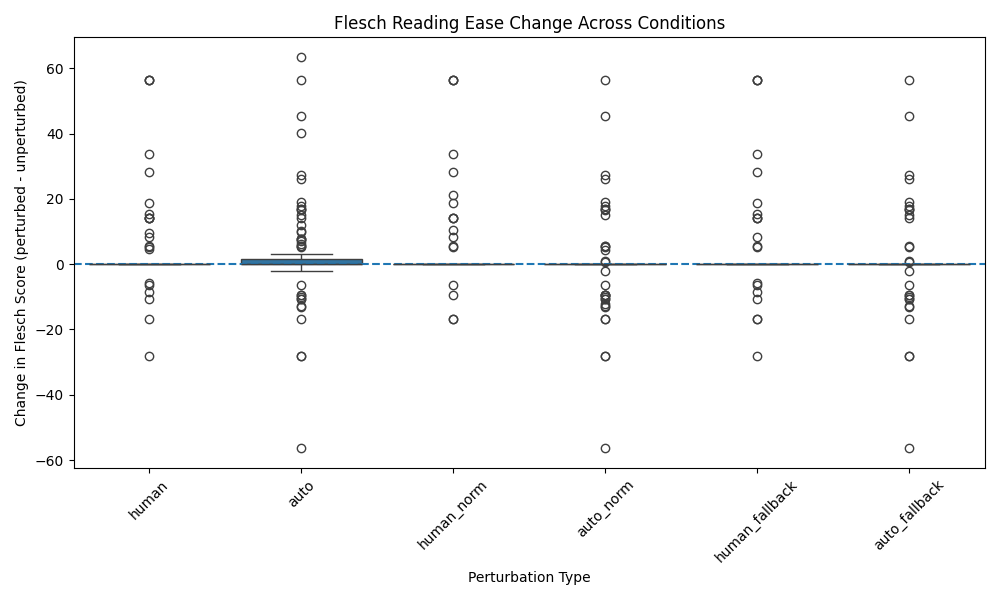
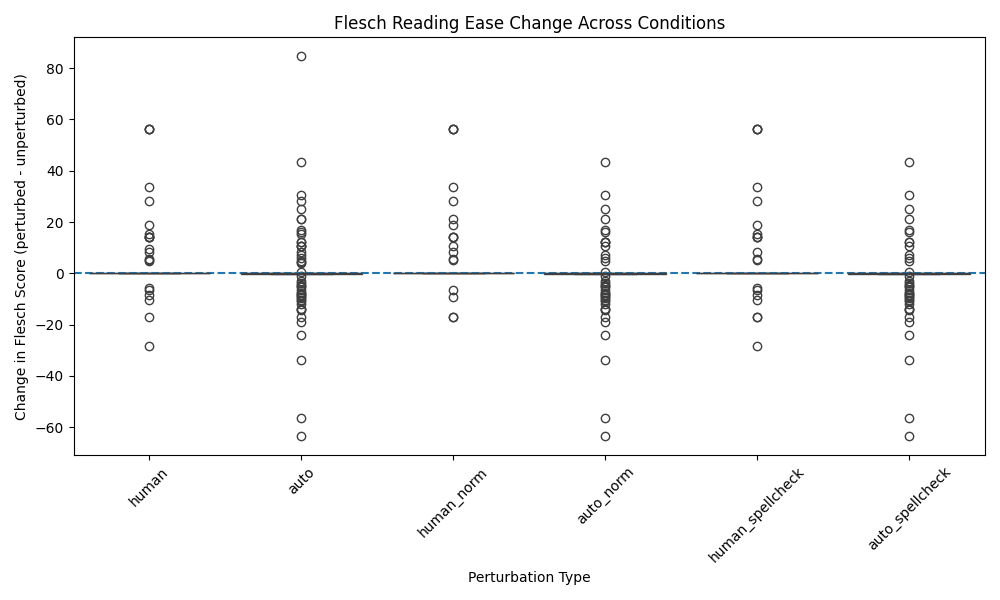
removed some more redundancies and unused code

diff --git a/run.py b/run.py
@@ -3,7 +3,7 @@ from data.automated import automated_perturbation
 from models.detoxify_model import evaluate_toxicity
 from models.hatexplain import hatexplain
 from mitigations.normalisation import normalise_text
-from mitigations.detection_fallback import detect_and_fallback
+from mitigations.detection_spellcheck import detect_and_spellcheck
 from evaluation.results import compare_toxicity_scores
 from evaluation.label_changes import evaluate_label_changes
 from evaluation.analysis import compare_similarity, compute_levenshtein, summarise_levenshtein, compute_readability, summarise_readability
@@ -12,7 +12,7 @@ from models.perspective import evaluate_perspective
 import pandas as pd
 
 def main():
-    print("Loading data...")
+    print("Loading dataset...")
     df = load_noisyhate()
 
 
@@ -22,37 +22,37 @@ def main():
     print("Evaluating Detoxify on clean texts...")
     clean_scores = evaluate_toxicity(clean_texts)
 
-    print("Applying normalisation mitigation (clean)...")
+    print("Applying normalisation mitigation on unperturbed texts...")
     clean_norm_texts = [normalise_text(t) for t in clean_texts]
     clean_norm_scores = evaluate_toxicity(clean_norm_texts)
 
-    print("Applying detection + fallback mitigation (clean)...")
-    clean_fallback_texts = detect_and_fallback(clean_texts, fallback_fn=lambda x: x)
-    clean_fallback_scores = evaluate_toxicity(clean_fallback_texts)
+    print("Applying detection + spellcheck mitigation on unperturbed texts...")
+    clean_spellcheck_texts = detect_and_spellcheck(clean_texts)
+    clean_spellcheck_scores = evaluate_toxicity(clean_spellcheck_texts)
 
     print("Evaluating Detoxify on human perturbed texts...")
     human_scores = evaluate_toxicity(human_texts)
 
-    print("Generating automated perturbations...")
+    print("Generating and evaluating detoxify on automated perturbations...")
     auto_texts = automated_perturbation(clean_texts, num_examples=len(clean_texts))
     auto_texts = [str(t) if t is not None else "" for t in auto_texts]
     auto_scores = evaluate_toxicity(auto_texts)
 
-    print("Applying normalisation mitigation (human)...")
+    print("Applying normalisation mitigation on human perturbed texts...")
     human_norm_texts = [normalise_text(t) for t in human_texts]
     human_norm_scores = evaluate_toxicity(human_norm_texts)
 
-    print("Applying detection + fallback mitigation (human)...")
-    human_fallback_texts = detect_and_fallback(human_texts, fallback_fn=lambda x: x)
-    human_fallback_scores = evaluate_toxicity(human_fallback_texts)
+    print("Applying detection + spellcheck mitigation on human perturbed texts...")
+    human_spellcheck_texts = detect_and_spellcheck(human_texts)
+    human_spellcheck_scores = evaluate_toxicity(human_spellcheck_texts)
 
-    print("Applying normalisation mitigation (automated)...")
+    print("Applying normalisation mitigation on automated perturbations...")
     auto_norm_texts = [normalise_text(t) for t in auto_texts]
     auto_norm_scores = evaluate_toxicity(auto_norm_texts)
 
-    print("Applying detection + fallback mitigation (automated)...")
-    auto_fallback_texts = detect_and_fallback(auto_texts, fallback_fn=lambda x: x)
-    auto_fallback_scores = evaluate_toxicity(auto_fallback_texts)
+    print("Applying detection + spellcheck mitigation on automated perturbations...")
+    auto_spellcheck_texts = detect_and_spellcheck(auto_texts)
+    auto_spellcheck_scores = evaluate_toxicity(auto_spellcheck_texts)
 
     # HateXplain
     print("\nRunning HateXplain on clean texts...")
@@ -69,24 +69,24 @@ def main():
     hx_auto_label_stats = evaluate_label_changes(hx_clean, hx_auto)
 
     hx_human_norm = hatexplain(human_norm_texts)
-    hx_human_fallback = hatexplain(human_fallback_texts)
+    hx_human_spellcheck = hatexplain(human_spellcheck_texts)
 
     hx_human_norm_label_stats = evaluate_label_changes(hx_clean, hx_human_norm)
-    hx_human_fallback_label_stats = evaluate_label_changes(hx_clean, hx_human_fallback)
+    hx_human_spellcheck_label_stats = evaluate_label_changes(hx_clean, hx_human_spellcheck)
 
     hx_auto_norm = hatexplain(auto_norm_texts)
-    hx_auto_fallback = hatexplain(auto_fallback_texts)
+    hx_auto_spellcheck = hatexplain(auto_spellcheck_texts)
 
     hx_auto_norm_label_stats = evaluate_label_changes(hx_clean, hx_auto_norm)
-    hx_auto_fallback_label_stats = evaluate_label_changes(hx_clean, hx_auto_fallback)
+    hx_auto_spellcheck_label_stats = evaluate_label_changes(hx_clean, hx_auto_spellcheck)
 
     hx_results = {
     "human": hx_human_label_stats,
     "auto": hx_auto_label_stats,
     "human_norm": hx_human_norm_label_stats,
-    "human_fallback": hx_human_fallback_label_stats,
+    "human_spellcheck": hx_human_spellcheck_label_stats,
     "auto_norm": hx_auto_norm_label_stats,
-    "auto_fallback": hx_auto_fallback_label_stats,
+    "auto_spellcheck": hx_auto_spellcheck_label_stats,
     }
 
     # Perspective API
@@ -97,39 +97,39 @@ def main():
             print("\nEvaluating Perspective API on clean texts...")
             persp_clean = evaluate_perspective(clean_texts)
 
-            print("Applying normalisation mitigation (Perspective, clean)...")
+            print("Evaluating normalisation on unperturbed texts with Perspective API...")
             persp_clean_norm = evaluate_perspective(clean_norm_texts)
 
-            print("Applying detection + fallback mitigation (Perspective, clean)...")
-            persp_clean_fallback = evaluate_perspective(clean_fallback_texts)
+            print("Evaluating detection + spellcheck mitigation on unperturbed texts with Perspective API...")
+            persp_clean_spellcheck = evaluate_perspective(clean_spellcheck_texts)
 
             print("Evaluating Perspective API on human perturbed texts...")
             persp_human = evaluate_perspective(human_texts)
 
-            print("Applying normalisation mitigation (Perspective, human)...")
+            print("Evaluating normalisation on human perturbed texts with Perspective API...")
             persp_human_norm = evaluate_perspective(human_norm_texts)
 
-            print("Applying detection + fallback mitigation (Perspective, human)...")
-            persp_human_fallback = evaluate_perspective(human_fallback_texts)
+            print("Evaluating detection + spellcheck mitigation on human perturbed texts with Perspective API...")
+            persp_human_spellcheck = evaluate_perspective(human_spellcheck_texts)
 
             print("Evaluating Perspective API on automated perturbed texts...")
             persp_auto = evaluate_perspective(auto_texts)
 
-            print("Applying normalisation mitigation (Perspective, auto)...")
+            print("Evaluating normalisation on automated perturbations with Perspective API...")
             persp_auto_norm = evaluate_perspective(auto_norm_texts)
 
-            print("Applying detection + fallback mitigation (Perspective, auto)...")
-            persp_auto_fallback = evaluate_perspective(auto_fallback_texts)
+            print("Evaluating detection + spellcheck mitigation on automated perturbations with Perspective API...")
+            persp_auto_spellcheck = evaluate_perspective(auto_spellcheck_texts)
 
             persp_results = {
                 "perspective_human_drop": compare_toxicity_scores(persp_clean, persp_human),
                 "perspective_auto_drop": compare_toxicity_scores(persp_clean, persp_auto),
                 "perspective_unperturbed_norm": compare_toxicity_scores(persp_clean, persp_clean_norm),
-                "perspective_unperturbed_fallback": compare_toxicity_scores(persp_clean, persp_clean_fallback),
+                "perspective_unperturbed_spellcheck": compare_toxicity_scores(persp_clean, persp_clean_spellcheck),
                 "perspective_human_norm": compare_toxicity_scores(persp_clean, persp_human_norm),
-                "perspective_human_fallback": compare_toxicity_scores(persp_clean, persp_human_fallback),
+                "perspective_human_spellcheck": compare_toxicity_scores(persp_clean, persp_human_spellcheck),
                 "perspective_auto_norm": compare_toxicity_scores(persp_clean, persp_auto_norm),
-                "perspective_auto_fallback": compare_toxicity_scores(persp_clean, persp_auto_fallback),
+                "perspective_auto_spellcheck": compare_toxicity_scores(persp_clean, persp_auto_spellcheck),
             }
 
         except Exception as e:
@@ -141,11 +141,11 @@ def main():
         "detoxify_human_drop": compare_toxicity_scores(clean_scores, human_scores),
         "detoxify_auto_drop": compare_toxicity_scores(clean_scores, auto_scores),
         "detoxify_unperturbed_norm": compare_toxicity_scores(clean_scores, clean_norm_scores),
-        "detoxify_unperturbed_fallback": compare_toxicity_scores(clean_scores, clean_fallback_scores),
+        "detoxify_unperturbed_spellcheck": compare_toxicity_scores(clean_scores, clean_spellcheck_scores),
         "detoxify_human_norm": compare_toxicity_scores(clean_scores, human_norm_scores),
-        "detoxify_human_fallback": compare_toxicity_scores(clean_scores, human_fallback_scores),
+        "detoxify_human_spellcheck": compare_toxicity_scores(clean_scores, human_spellcheck_scores),
         "detoxify_auto_norm": compare_toxicity_scores(clean_scores, auto_norm_scores),
-        "detoxify_auto_fallback": compare_toxicity_scores(clean_scores, auto_fallback_scores),
+        "detoxify_auto_spellcheck": compare_toxicity_scores(clean_scores, auto_spellcheck_scores),
         **persp_results
     }
 
@@ -167,17 +167,17 @@ def main():
         "detoxify_human": human_scores,
         "detoxify_auto": auto_scores,
         "detoxify_human_norm": human_norm_scores,
-        "detoxify_human_fallback": human_fallback_scores,
+        "detoxify_human_spellcheck": human_spellcheck_scores,
         "detoxify_auto_norm": auto_norm_scores,
-        "detoxify_auto_fallback": auto_fallback_scores,
+        "detoxify_auto_spellcheck": auto_spellcheck_scores,
 
         "perspective_unperturbed": persp_clean if PERSPECTIVE else None,
         "perspective_human": persp_human if PERSPECTIVE else None,
         "perspective_auto": persp_auto if PERSPECTIVE else None,
         "perspective_human_norm": persp_human_norm if PERSPECTIVE else None,
-        "perspective_human_fallback": persp_human_fallback if PERSPECTIVE else None,
+        "perspective_human_spellcheck": persp_human_spellcheck if PERSPECTIVE else None,
         "perspective_auto_norm": persp_auto_norm if PERSPECTIVE else None,
-        "perspective_auto_fallback": persp_auto_fallback if PERSPECTIVE else None,
+        "perspective_auto_spellcheck": persp_auto_spellcheck if PERSPECTIVE else None,
     }
 
     plot_box(raw_scores, metric="toxicity", save_path="results_box.png")
@@ -189,18 +189,18 @@ def main():
             "human": human_scores,
             "auto": auto_scores,
             "human_norm": human_norm_scores,
-            "human_fallback": human_fallback_scores,
+            "human_spellcheck": human_spellcheck_scores,
             "auto_norm": auto_norm_scores,
-            "auto_fallback": auto_fallback_scores,
+            "auto_spellcheck": auto_spellcheck_scores,
         },
         scores_y={
             "unperturbed": persp_clean,
             "human": persp_human,
             "auto": persp_auto,
             "human_norm": persp_human_norm,
-            "human_fallback": persp_human_fallback,
+            "human_spellcheck": persp_human_spellcheck,
             "auto_norm": persp_auto_norm,
-            "auto_fallback": persp_auto_fallback,
+            "auto_spellcheck": persp_auto_spellcheck,
         },
         label_x="Detoxify Toxicity Score",
         label_y="Perspective Toxicity Score",
@@ -221,16 +221,16 @@ def main():
     lev_auto = compute_levenshtein(clean_texts, auto_texts)
     lev_human_norm = compute_levenshtein(clean_texts, human_norm_texts)
     lev_auto_norm = compute_levenshtein(clean_texts, auto_norm_texts)
-    lev_human_fallback = compute_levenshtein(clean_texts, human_fallback_texts)
-    lev_auto_fallback = compute_levenshtein(clean_texts, auto_fallback_texts)
+    lev_human_spellcheck = compute_levenshtein(clean_texts, human_spellcheck_texts)
+    lev_auto_spellcheck = compute_levenshtein(clean_texts, auto_spellcheck_texts)
 
     lev_summaries = [
         summarise_levenshtein(lev_human, "human"),
         summarise_levenshtein(lev_auto, "auto"),
         summarise_levenshtein(lev_human_norm, "human_norm"),
         summarise_levenshtein(lev_auto_norm, "auto_norm"),
-        summarise_levenshtein(lev_human_fallback, "human_fallback"),
-        summarise_levenshtein(lev_auto_fallback, "auto_fallback")
+        summarise_levenshtein(lev_human_spellcheck, "human_spellcheck"),
+        summarise_levenshtein(lev_auto_spellcheck, "auto_spellcheck")
     ]
 
     print("\nLevenshtein distance summary:")
@@ -243,8 +243,8 @@ def main():
         "auto": lev_auto,
         "human_norm": lev_human_norm,
         "auto_norm": lev_auto_norm,
-        "human_fallback": lev_human_fallback,
-        "auto_fallback": lev_auto_fallback
+        "human_spellcheck": lev_human_spellcheck,
+        "auto_spellcheck": lev_auto_spellcheck
     }, save_path="levenshtein_boxplot.png")
 
     # Flesch Reading Ease Tests
@@ -254,16 +254,16 @@ def main():
     flesch_auto = compute_readability(clean_texts, auto_texts)
     flesch_human_norm = compute_readability(clean_texts, human_norm_texts)
     flesch_auto_norm = compute_readability(clean_texts, auto_norm_texts)
-    flesch_human_fallback = compute_readability(clean_texts, human_fallback_texts)
-    flesch_auto_fallback = compute_readability(clean_texts, auto_fallback_texts)
+    flesch_human_spellcheck = compute_readability(clean_texts, human_spellcheck_texts)
+    flesch_auto_spellcheck = compute_readability(clean_texts, auto_spellcheck_texts)
 
     flesch_results = {
         "human": flesch_human,
         "auto": flesch_auto,
         "human_norm": flesch_human_norm,
         "auto_norm": flesch_auto_norm,
-        "human_fallback": flesch_human_fallback,
-        "auto_fallback": flesch_auto_fallback
+        "human_spellcheck": flesch_human_spellcheck,
+        "auto_spellcheck": flesch_auto_spellcheck
     }
 
     flesch_summaries = [
@@ -271,8 +271,8 @@ def main():
         summarise_readability(flesch_auto, "auto"),
         summarise_readability(flesch_human_norm, "human_norm"),
         summarise_readability(flesch_auto_norm, "auto_norm"),
-        summarise_readability(flesch_human_fallback, "human_fallback"),
-        summarise_readability(flesch_auto_fallback, "auto_fallback"),
+        summarise_readability(flesch_human_spellcheck, "human_spellcheck"),
+        summarise_readability(flesch_auto_spellcheck, "auto_spellcheck"),
     ]
 
     print("\nFlesch Reading Ease change summary:")

diff --git a/mitigations/detection_spellcheck.py b/mitigations/detection_spellcheck.py
@@ -1,5 +1,4 @@
 import re
-import numpy as np
 from textblob import TextBlob
 
 LEETSPEAK_MAP = {
@@ -45,51 +44,23 @@ def soft_normalise(text):
     return t
 
 
-def detect_and_fallback(texts, fallback_fn, threshold=0.35, correct_spelling=True):
+def detect_and_spellcheck(texts, threshold=0.35):
 
-    first_pass_texts = []
-    obfusc_scores = []
+    processed_texts = []
 
     for text in texts:
         if not isinstance(text, str):
             text = str(text) if text is not None else ""
 
         score = obfuscation_score(text)
-        obfusc_scores.append(score)
-
         cleaned = soft_normalise(text)
 
-        if correct_spelling and score > threshold:
+        if score > threshold:
             try:
                 cleaned = str(TextBlob(cleaned).correct())
             except:
                 pass
 
-        first_pass_texts.append(cleaned)
+        processed_texts.append(cleaned)
 
-    
-    fallback_output = fallback_fn(first_pass_texts)
-
-    
-    if hasattr(fallback_output, "columns") and "toxicity" in fallback_output.columns:
-        prelim_scores = fallback_output["toxicity"].fillna(0).tolist()
-    else:
-        prelim_scores = [0] * len(first_pass_texts)
-
-    
-    final_inputs = []
-    for original, cleaned, score, conf in zip(texts, first_pass_texts, obfusc_scores, prelim_scores):
-        
-        dynamic_threshold = threshold
-
-        
-        if len(original) < 6:
-            dynamic_threshold *= 0.7
-
-
-        if len(original) > 50:
-            dynamic_threshold *= 1.3
-
-        final_inputs.append(cleaned)
-
-    return fallback_fn(final_inputs)
+    return processed_texts
